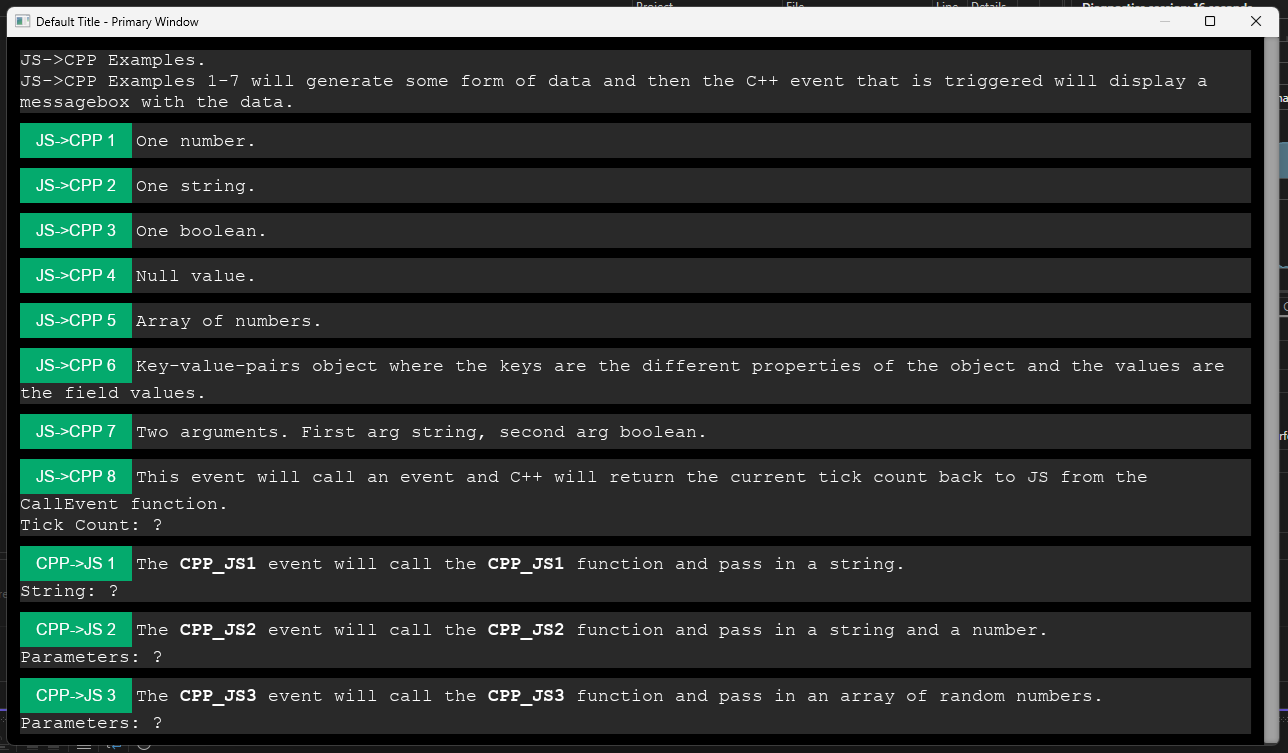
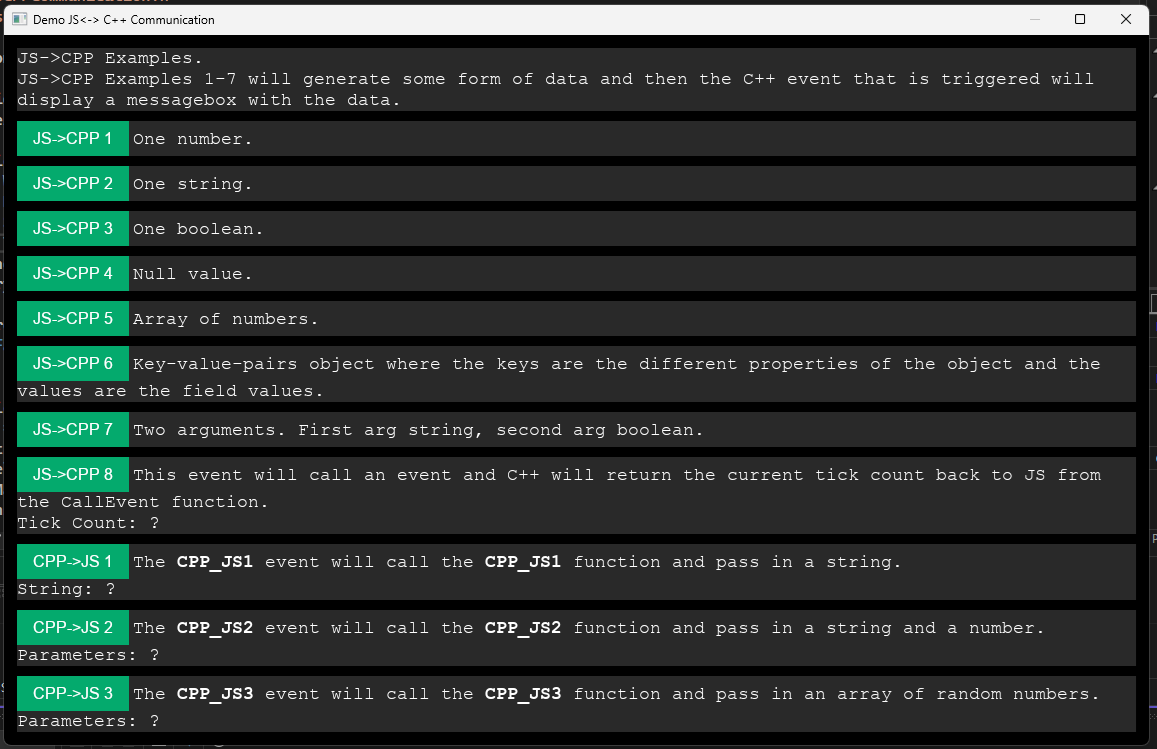
doc fixes

Changed region(s): [[0.0, 0.0, 1.0, 1.0], [0.8401, 0.8291, 0.9023, 0.8598]]

diff --git a/Ultralight Demo/Demos/DemoJSCppCommunication/DemoJSCPPCommunication.cpp b/Ultralight Demo/Demos/DemoJSCppCommunication/DemoJSCPPCommunication.cpp
@@ -11,7 +11,7 @@ bool DemoJSCPPCommunication::Startup()
 	windowParms.Width = screenWidth - 100;
 	windowParms.Height = screenHeight - 100;
 	windowParms.Style = WindowStyle::Resizable | WindowStyle::ExitButton | WindowStyle::MaximizeAvailable;
-	windowParms.Title = "Default Title - Primary Window";
+	windowParms.Title = "Demo JS<-> C++ Communication";
 	m_PrimaryWindow = WindowManager::SpawnWindow(windowParms);
 	if (m_PrimaryWindow.expired())
 	{

diff --git a/Ultralight Demo/Demos/DemoMultipleCubesEmbedded/DemoMultipleCubesEmbedded.cpp b/Ultralight Demo/Demos/DemoMultipleCubesEmbedded/DemoMultipleCubesEmbedded.cpp
@@ -9,7 +9,7 @@ bool DemoMultipleCubesEmbedded::Startup()
 	windowParms.Width = 800;
 	windowParms.Height = 600;
 	windowParms.Style = WindowStyle::Resizable | WindowStyle::ExitButton | WindowStyle::MaximizeAvailable;
-	windowParms.Title = "Demo Cube Draw";
+	windowParms.Title = "Demo Multiple Cubes Embedded";
 	WeakWrapper<Window> pWindow = WindowManager::SpawnWindow(windowParms);
 	if (pWindow.expired())
 	{
